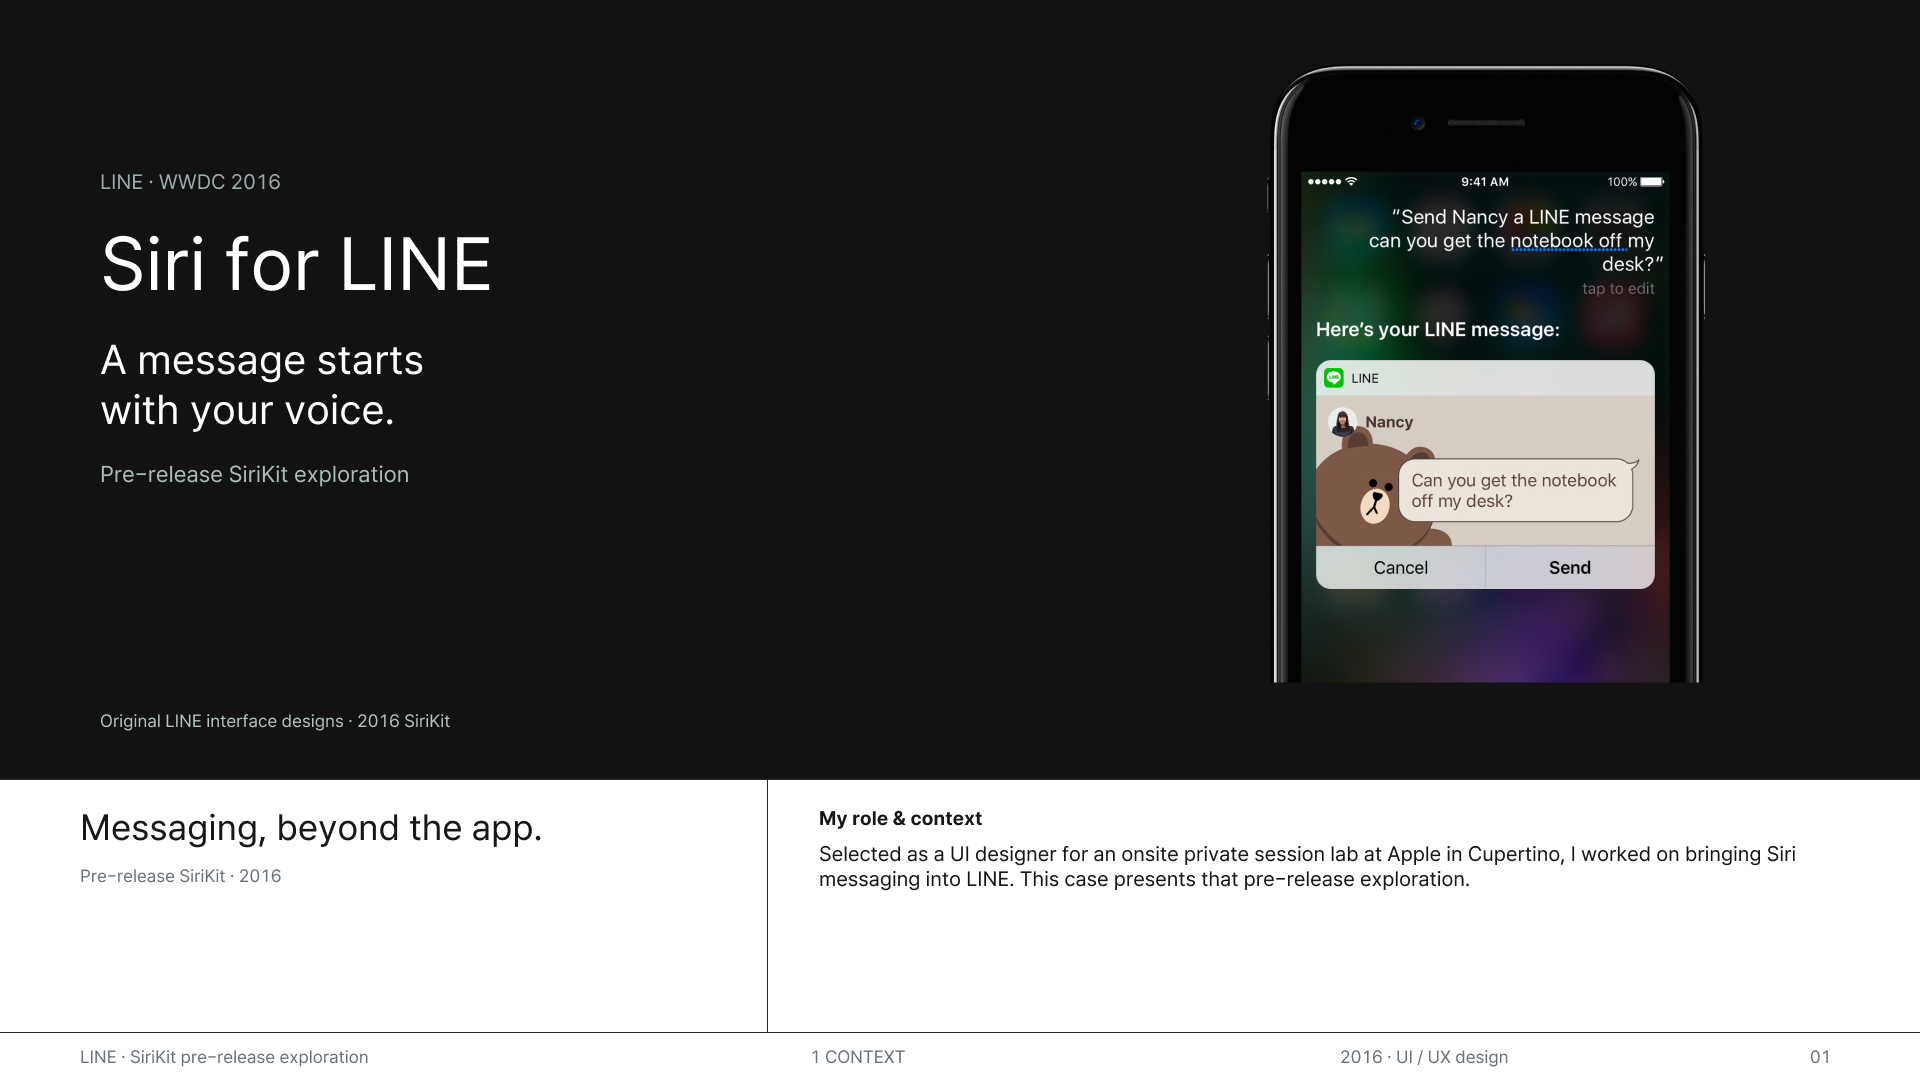
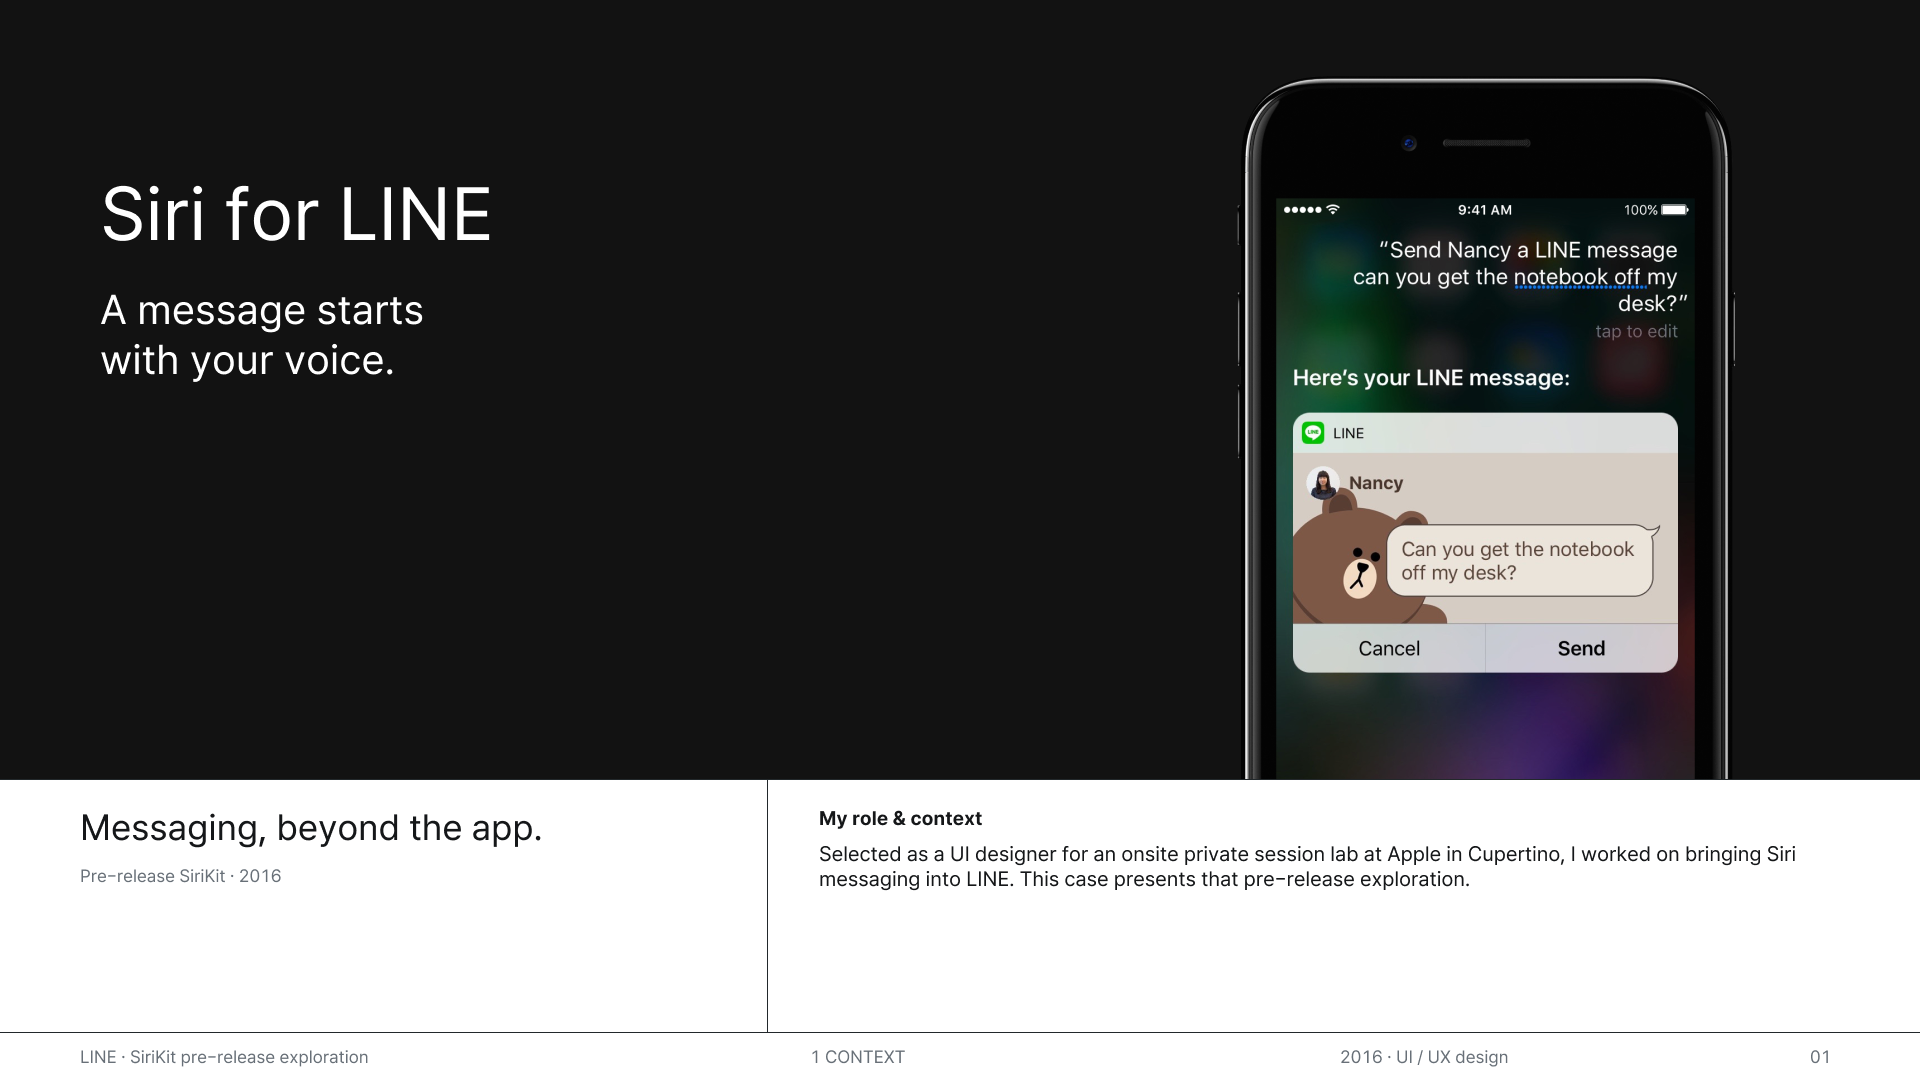
Align Siri slide phones to the visual boundary

diff --git a/index.html b/index.html
@@ -521,7 +521,7 @@ const DECKS = {
 };
 const META_SOLUTIONS = [{"key":"upcoming","title":"CTA for Upcoming 1:1s","description":"Start from an upcoming meeting. Open the shared 1:1 note directly from Home, so preparation begins in the flow of the workday.","src":"assets/meta/solution-upcoming.png"},{"key":"event-notes","title":"Event details with 1:1 notes","description":"Keep the meeting and its shared notes together. Review the agenda from event details before joining the conversation.","src":"assets/meta/solution-event-notes.png"},{"key":"quick-editor","title":"Quick editor","description":"Add or update talking points in place. A focused editor makes it easy to capture context without leaving the meeting flow.","src":"assets/meta/solution-quick-editor.png"},{"key":"discover","title":"Discover & Add your 1:1s","description":"Find existing 1:1s and create a new one from a single list. Recurring conversations stay easy to return to.","src":"assets/meta/solution-discover.png"}];
 const DECK_BASE = 'assets/decks/';
-const DECK_REVISION = '20261019-line-siri-photo';
+const DECK_REVISION = '20261019-line-siri-bottom';
 const slideSrc = name => DECK_BASE + encodeURIComponent(name) + '.png?v=' + DECK_REVISION;
 // Video bounds in the original 1920×1080 Figma frames.
 const SLIDE_VIDEOS = {
